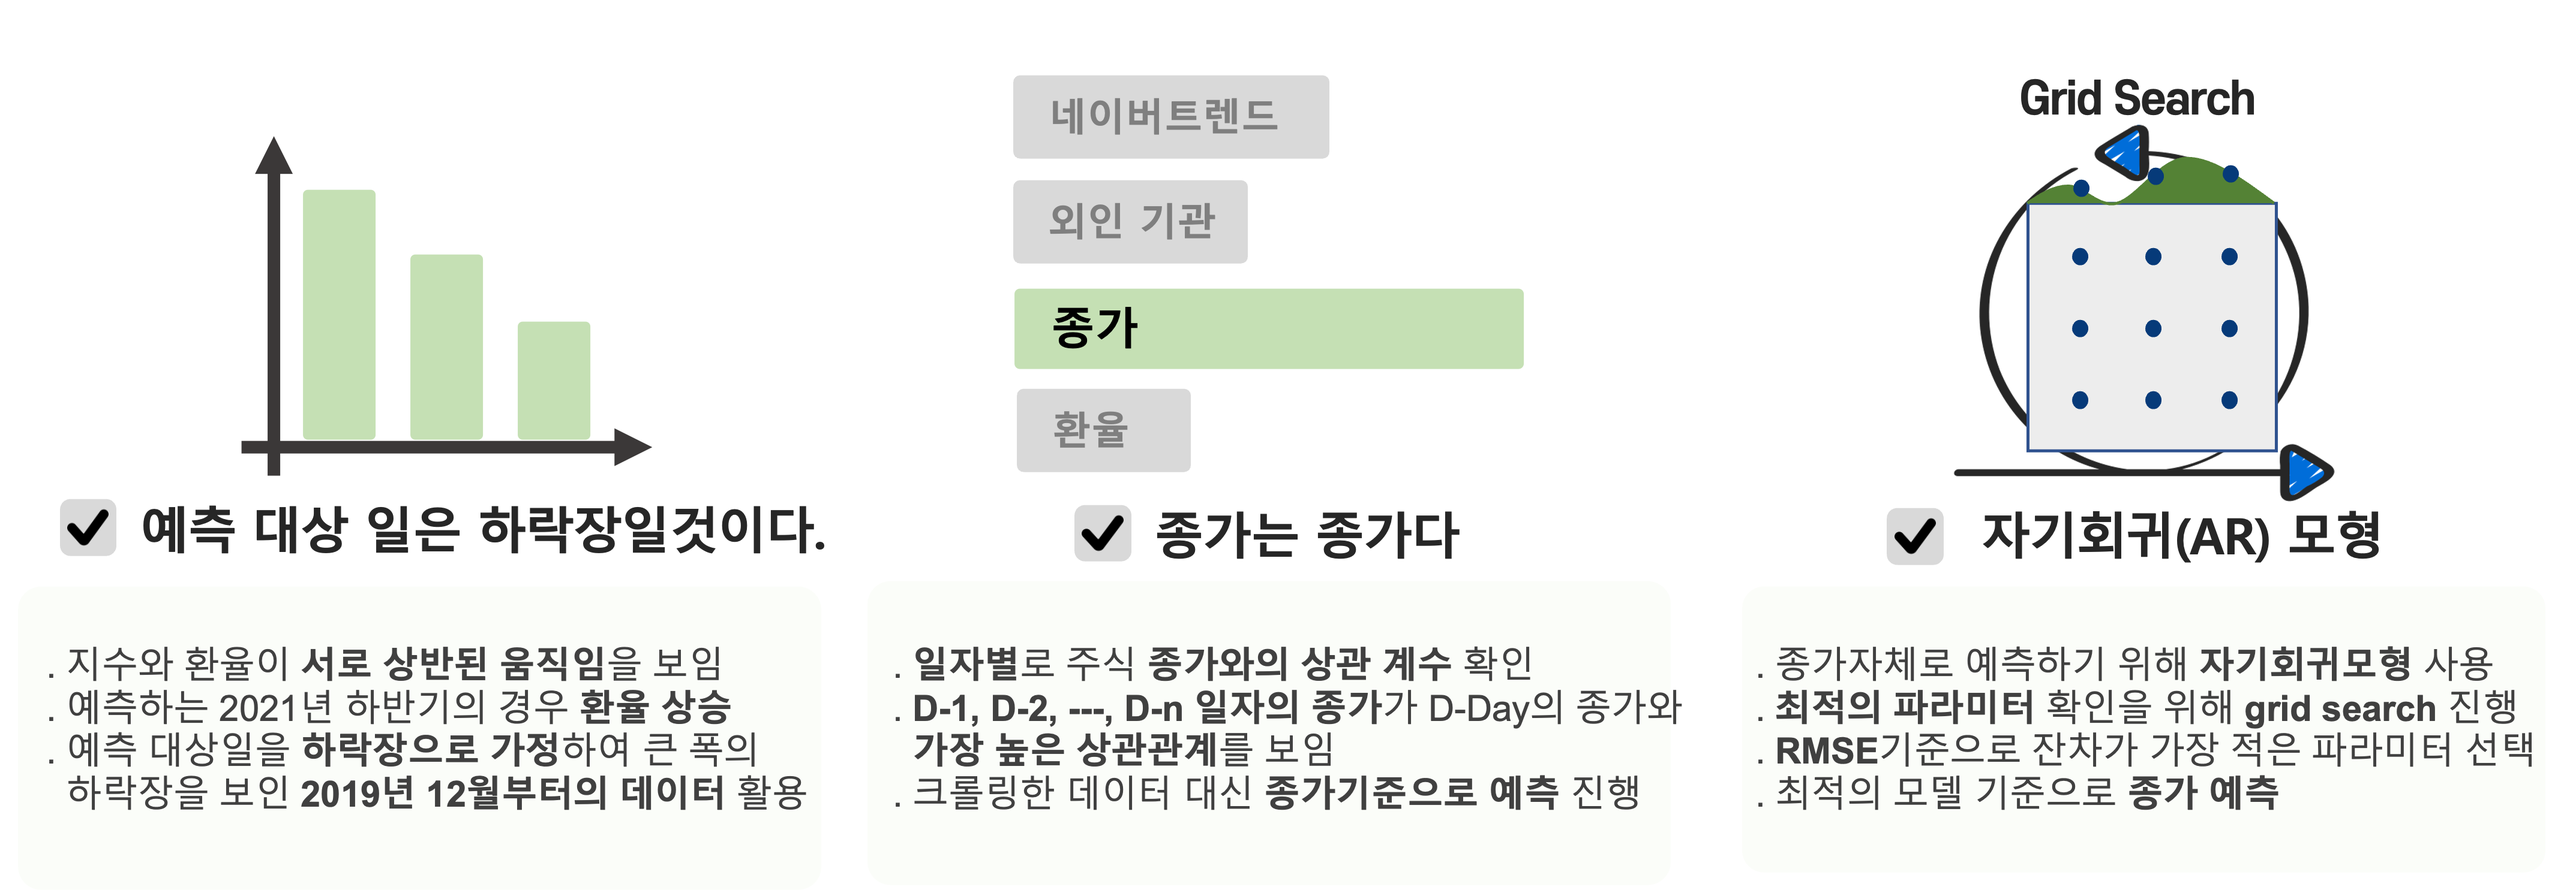
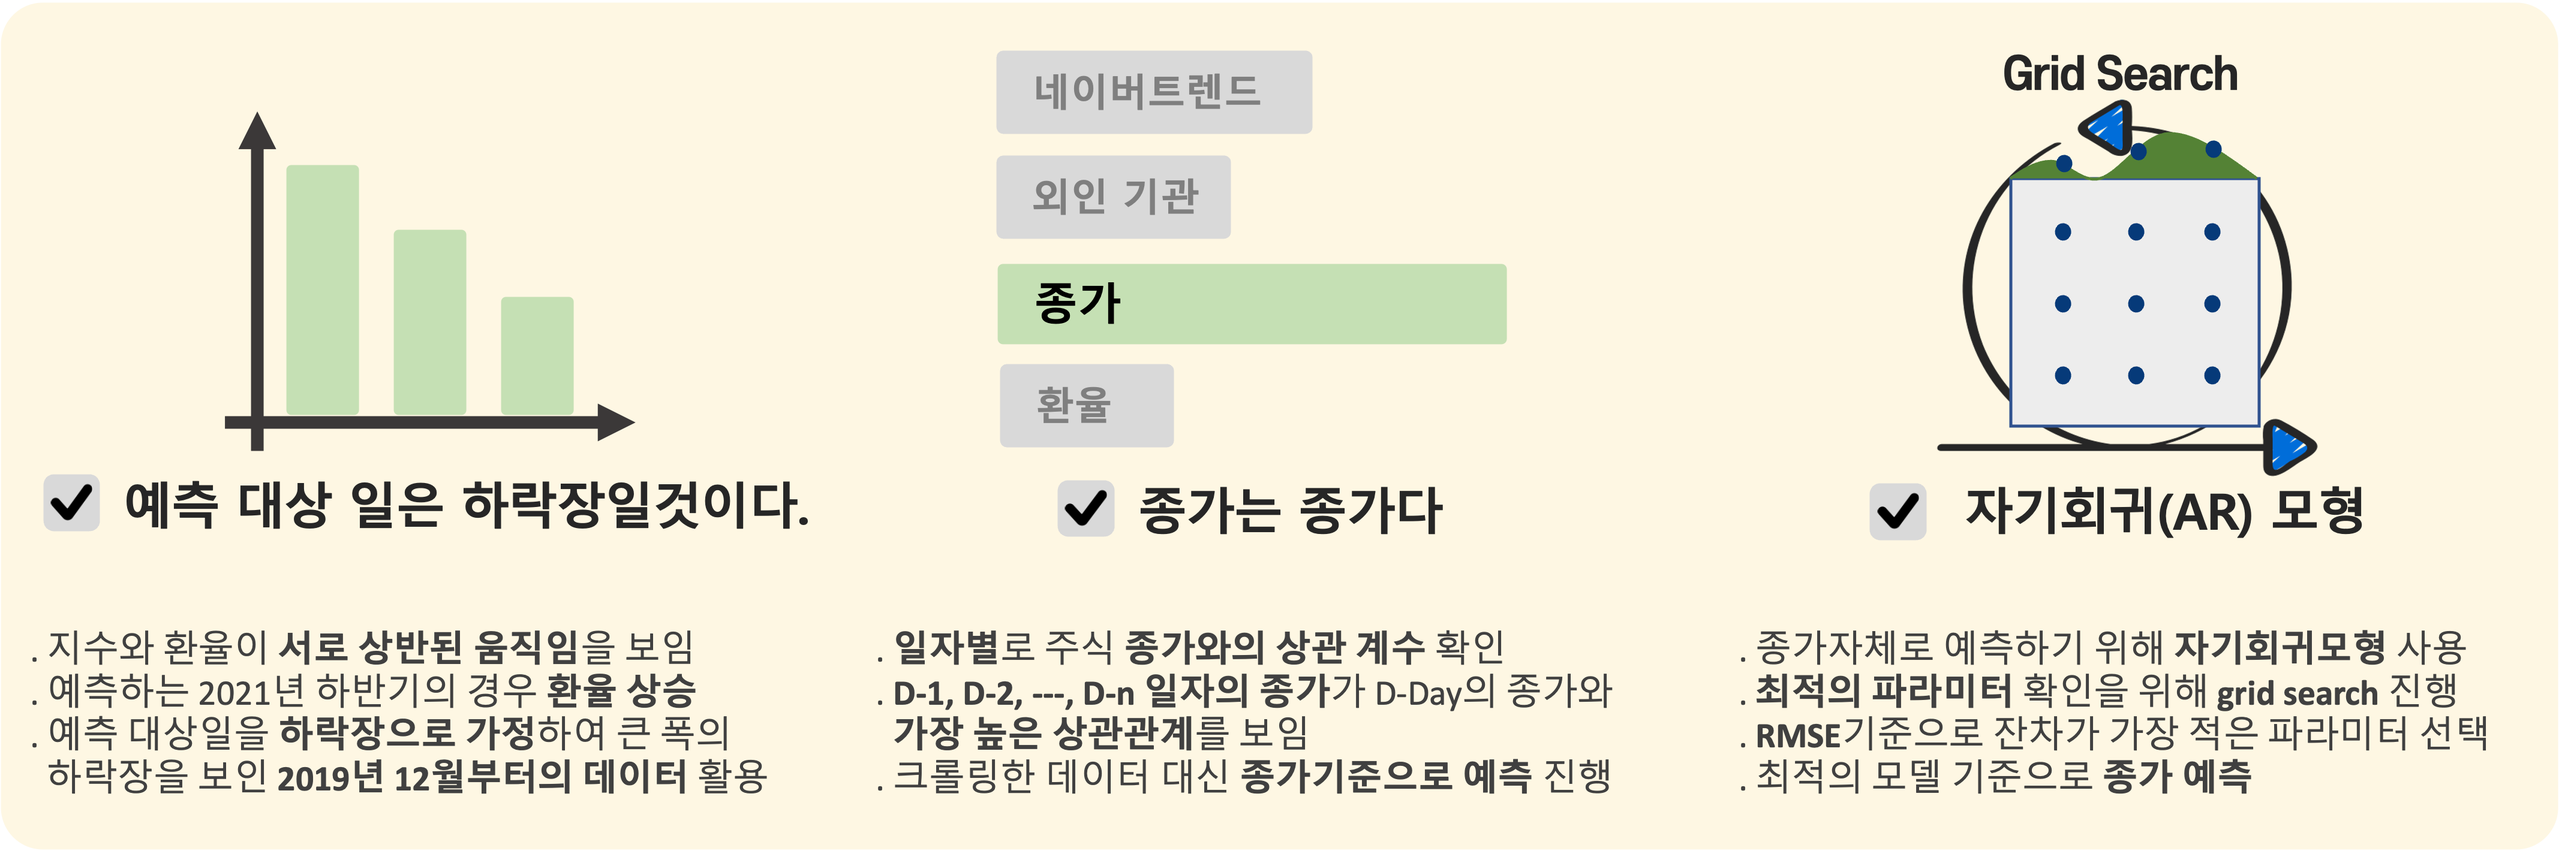
20230118

diff --git a/src/markdown-pages/projects/data-insertcoin.md b/src/markdown-pages/projects/data-insertcoin.md
@@ -18,14 +18,8 @@ techIcons: [
 ---
 ### INSERT COIN I
 
-<div float: left; width: 33%;">
-    <img src="https://boysbeanxious22.netlify.app/insert_coin_1_1.png" style="float: left; width: 33%;">
-</div>
-<div float: left; width: 33%;">
-    <img src="https://boysbeanxious22.netlify.app/insert_coin_1_2.png" style="float: left; width: 33%;">
-</div>
-<div float: left; width: 33%;">
-    <img src="https://boysbeanxious22.netlify.app/insert_coin_1_3.png" style="float: left; width: 33%;">
+<div float: left; width: 100%;">
+    <img src="https://boysbeanxious22.netlify.app/insert_coin_1.png" style="float: left; width: 100%;">
 </div>
 
 
